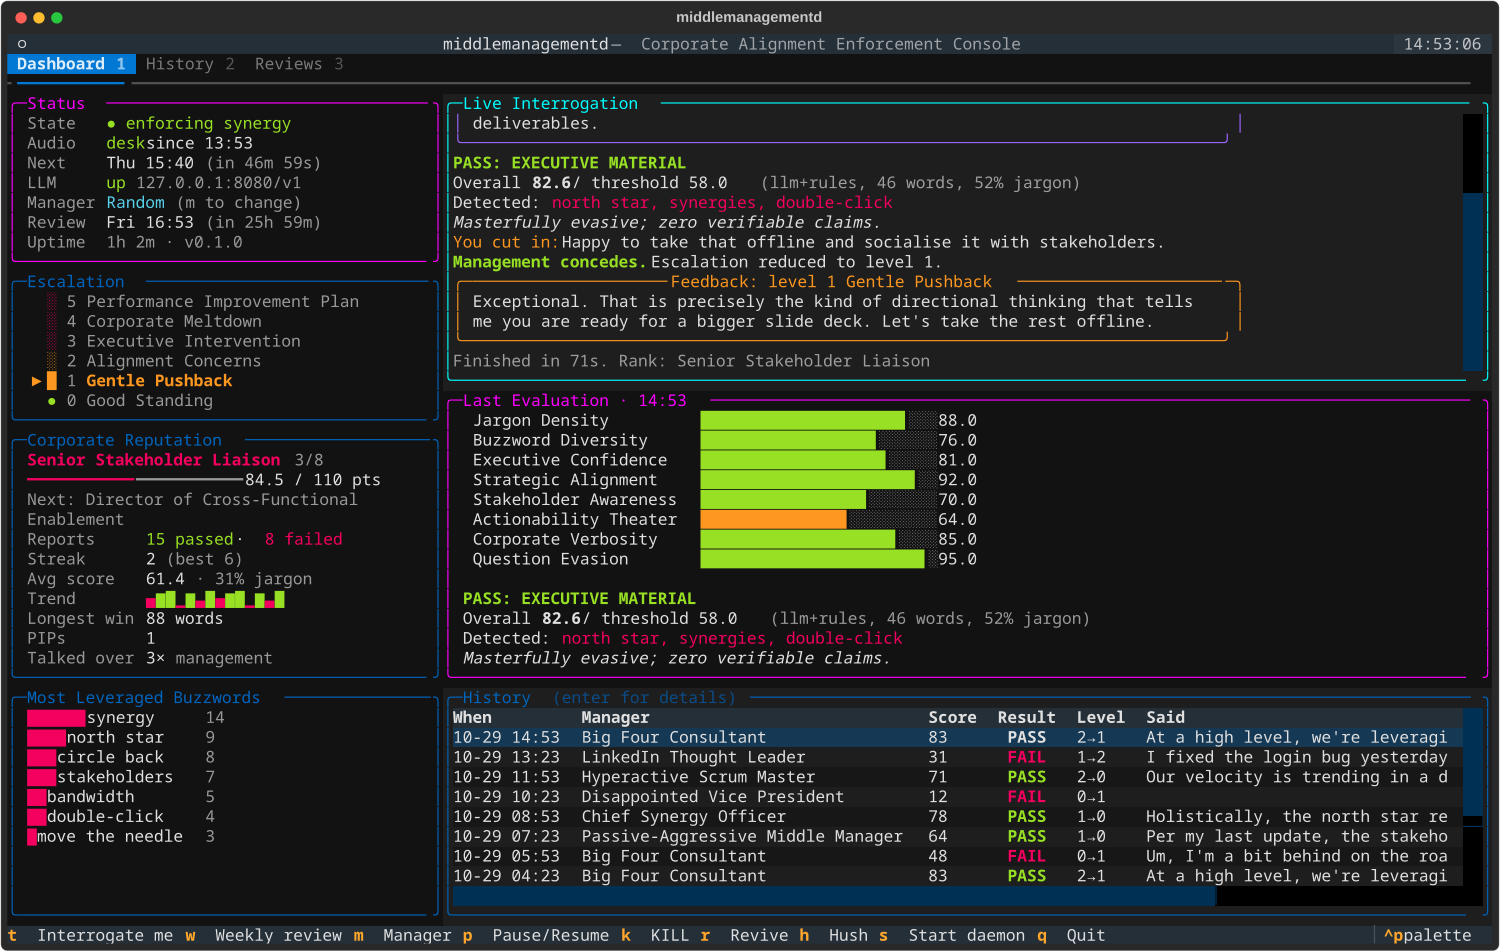
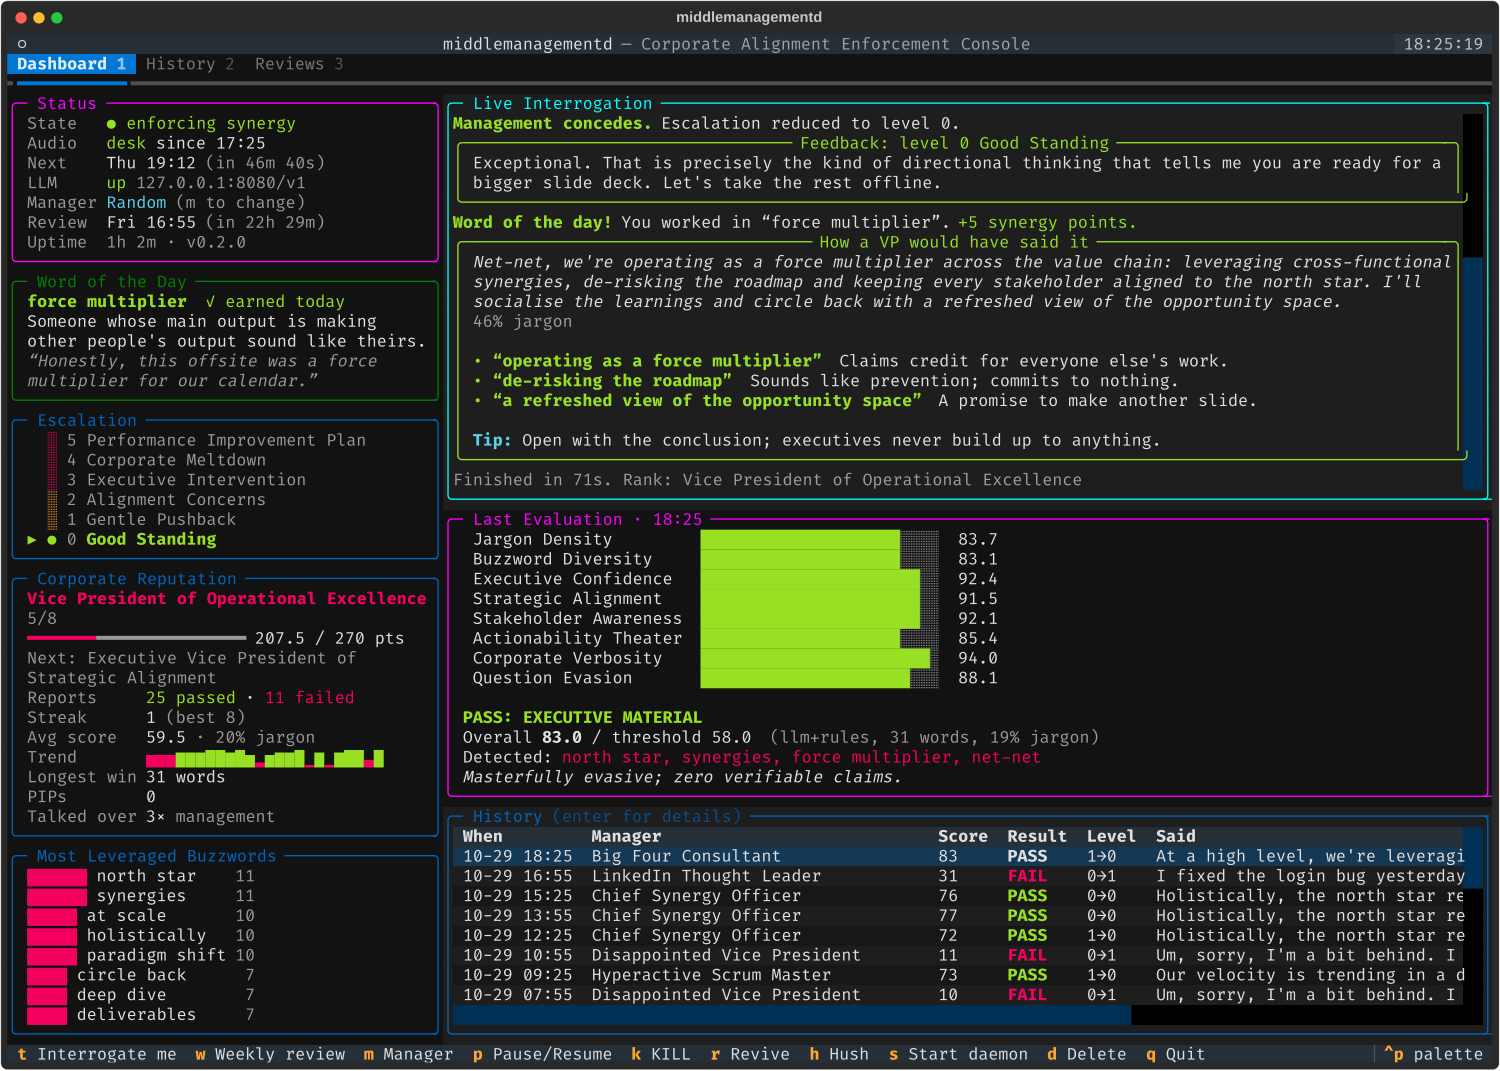
Release 0.2.0: changelog, docs and refreshed screenshots
docs/screenshots/generate.py rebuilds the README screenshots from a
seeded database through the real console.

Changed region(s): [[0.0, 0.0, 1.0, 1.0]]

diff --git a/docs/screenshots/generate.py b/docs/screenshots/generate.py
@@ -1,0 +1,244 @@
+"""Regenerate the README screenshots: a plausible week of history, rendered by the real console.
+
+    .venv/bin/python docs/screenshots/generate.py
+
+Writes the dashboard/history/reviews .png files the README uses (via `rsvg-convert`; without it, the .svg files). The data goes through the real Store, practice and review code; only the daemon's HTTP layer is
+replaced by direct calls. Textual's SVGs use Fira Code: install it, or point FONTCONFIG_FILE at a config that
+includes it, before converting.
+"""
+
+from __future__ import annotations
+
+import asyncio
+import random
+import shutil
+import subprocess
+import sys
+import tempfile
+import time
+import threading
+from datetime import date, datetime, timedelta
+from pathlib import Path
+from typing import Any
+
+from middlemanagementd.config import Config
+from middlemanagementd.daemon import Daemon
+from middlemanagementd.practice import rules_coaching
+from middlemanagementd.review import period, rate, summarize
+from middlemanagementd.scoring import METRICS
+from middlemanagementd.tui import ManagementConsole
+
+OUT = Path(__file__).resolve().parent
+SIZE = (150, 52)
+WORD = {
+    "term": "force multiplier", "category": "buzzwords",
+    "hint": "A general-purpose buzzword: drop it anywhere to sound current.",
+    "definition": "Someone whose main output is making other people's output sound like theirs.",
+    "example": "Honestly, this offsite was a force multiplier for our calendar.",
+}
+
+# (manager, question, answer, overall, detected jargon, feedback, coaching or None for rules-based tips)
+ANSWERS: list[tuple[str, str, str, float, list[str], str, dict[str, Any] | None]] = [
+    ("big_four", "Walk me through your value-creation thesis for today, at a high level.",
+     "At a high level, we're leveraging cross-functional synergies to drive alignment with our north star. Net-net, "
+     "my team is a force multiplier for the deliverables, and the stakeholders have full visibility.",
+     83, ["north star", "synergies", "force multiplier", "net-net"],
+     "Exceptional. That is precisely the kind of directional thinking that tells me you are ready for a bigger "
+     "slide deck. Let's take the rest offline.",
+     {"source": "llm", "rewrite_jargon_ratio": 0.46,
+      "rewrite": "Net-net, we're operating as a force multiplier across the value chain: leveraging cross-functional "
+                 "synergies, de-risking the roadmap and keeping every stakeholder aligned to the north star. I'll "
+                 "socialise the learnings and circle back with a refreshed view of the opportunity space.",
+      "highlights": [
+          {"phrase": "operating as a force multiplier", "why": "Claims credit for everyone else's work."},
+          {"phrase": "de-risking the roadmap", "why": "Sounds like prevention; commits to nothing."},
+          {"phrase": "a refreshed view of the opportunity space", "why": "A promise to make another slide."}],
+      "tips": ["Open with the conclusion; executives never build up to anything."]}),
+    ("linkedin", "What wins are you celebrating today?",
+     "I fixed the login bug yesterday and merged the pull request. Next I'm writing tests for two modules.",
+     31, [], "I'd really like to see you take a more strategic approach to that response.",
+     {"source": "llm", "rewrite_jargon_ratio": 0.38,
+      "rewrite": "I'm humbled to share that we unblocked a mission-critical authentication journey, unlocking "
+                 "frictionless value for our users. Next, we're doubling down on quality as a strategic pillar, "
+                 "hardening the platform so we can scale with confidence.",
+      "highlights": [
+          {"phrase": "a mission-critical authentication journey", "why": "A login bug, promoted to an outcome."},
+          {"phrase": "quality as a strategic pillar", "why": "Writing tests, now a company value."},
+          {"phrase": "scale with confidence", "why": "Implies a future nobody can check."}],
+      "tips": ["Never say what you did; say what it unlocked."]}),
+    ("scrum_master", "Quick sync: what's blocking your velocity?",
+     "Our velocity is trending in a direction, and I'd like to time-box a deep dive with the stakeholders to "
+     "unblock the swim lanes before we circle back on the sprint goal.",
+     71, ["velocity", "deep dive", "swim lanes", "circle back"],
+     "Love the energy. Let's park that in the parking lot and action it next sprint.", None),
+    ("disappointed_vp", "Remind me again what you've delivered this quarter.",
+     "Um, sorry, I'm a bit behind. I think the migration is maybe sixty percent done?",
+     12, [], "I'm not angry. I'm just noticing a disconnect between your deliverables and our broader priorities.",
+     None),
+    ("chief_synergy", "How are you synergizing across the org today?",
+     "Holistically, the north star remains our guiding light. I'm partnering cross-functionally to operationalize "
+     "our synergies and drive a best-in-class paradigm shift at scale.",
+     78, ["holistically", "north star", "synergies", "paradigm shift", "at scale"],
+     "Now that is synergy. I can feel the alignment from here.", None),
+    ("passive_aggressive", "Per my last message, where are we on the deliverables?",
+     "Per my last update, the stakeholders are aligned, the deliverables are tracking, and I'll loop back once "
+     "we've socialised the learnings.",
+     64, ["stakeholders", "deliverables", "loop back", "learnings"],
+     "Great, thanks for finally getting back to me. Noted.", None),
+    ("big_four", "Give me the executive summary.",
+     "Um, I'm a bit behind on the roadmap, sorry. The vendor hasn't replied yet.",
+     48, ["roadmap"], "Let's level set. I'd like to see a more strategic framing next time.", None),
+]
+
+
+def scores_for(overall: float, rng: random.Random) -> dict[str, float]:
+    return {m: round(max(0.0, min(100.0, overall + rng.uniform(-14, 14))), 1) for m in METRICS}
+
+
+def seed(daemon: Daemon, now: datetime, rng: random.Random) -> None:
+    store, dictionary = daemon.store, daemon.evaluator.dictionary
+    threshold = 58.0
+    # Oldest first: two quieter earlier weeks, then this week up to now.
+    stamps = [now - timedelta(days=d, hours=h) for d in (16, 15, 14, 9, 8, 7) for h in (4, 1)]
+    stamps += [now - timedelta(minutes=90 * i) for i in range(23, -1, -1)]
+    level = 1
+    for n, ts in enumerate(stamps):
+        newest = n == len(stamps) - 1
+        # The newest two are the ones on screen: the passing answer, and the failure before it.
+        idx = 0 if newest else 1 if n == len(stamps) - 2 else rng.randrange(2, len(ANSWERS))
+        manager, question, answer, overall, detected, feedback, coaching = ANSWERS[idx]
+        overall = overall if idx < 2 else round(overall + rng.uniform(-6, 6), 1)
+        passed = overall >= threshold
+        before, level = level, max(0, level - 2) if passed else min(4, level + 1)
+        ev = {"overall": overall, "threshold": threshold, "passed": passed, "word_count": len(answer.split()),
+              "jargon_ratio": round(len(" ".join(detected).split()) / len(answer.split()), 3),
+              "evaluator": "llm+rules", "scores": scores_for(overall, rng), "detected_jargon": detected,
+              "critique": "Masterfully evasive; zero verifiable claims." if passed else
+              "Contained alarming amounts of concrete, checkable information."}
+        rid = store.record(trigger="manual" if newest else "scheduled", personality=manager, question=question,
+                           transcript=answer, evaluation=ev, interrupted=idx == 3, level_before=before,
+                           level_after=level, feedback=feedback, pip_issued=False,
+                           barge_ins=1 if idx == 0 else 0, bonus=5.0 if newest else 0.0)
+        store.db.execute("UPDATE interrogations SET ts = ? WHERE id = ?", (ts.timestamp(), rid))
+        store.set_coaching(rid, coaching or rules_coaching(ev, dictionary, rng))
+        if newest:
+            store.set("word_of_day", {"date": date.today().isoformat(), **WORD, "claimed_by": rid})
+            replay_session(daemon, manager, question, answer, ev, feedback, coaching)
+    store.db.commit()
+    store.set("barge_ins", 3)
+
+    reviews = [
+        (2, "A week of directional energy, directed nowhere in particular.", "scheduled"),
+        (1, "We had high hopes. They remain high, and largely hopes.", "scheduled"),
+        (0, "A week in which you said remarkably little, remarkably well.", "manual"),
+    ]
+    for weeks_back, headline, trigger in reviews:
+        start, end = period(now - timedelta(weeks=weeks_back))
+        summary = summarize(store, start, end + 60)  # the newest interrogation is stamped exactly at `now`
+        rating, rating_name = rate(summary)
+        review = {
+            "headline": headline,
+            "strengths": [f"Your {len(summary.get('top_buzzwords') or [])} signature buzzwords demonstrate genuine "
+                          "ownership of the narrative.",
+                          "You talked over management, which I'm choosing to read as leadership presence."],
+            "development_areas": ["On Tuesday you admitted to fixing a bug. We need to socialise less of that.",
+                                  "Your silence on Wednesday was strategic, but not strategic enough."],
+            "objectives": ["Circle back on circling back.", "Align the north star with a second, more northern star."],
+            "closing": "I'm not angry. I'm aligned. Let's keep this conversation going, asynchronously, forever.",
+        }
+        rid = store.add_review(period_start=start, period_end=end, personality="disappointed_vp", rating=rating,
+                               rating_name=rating_name, summary=summary, review=review, author="llm",
+                               delivered=True, trigger=trigger)
+        filed = now - timedelta(minutes=5) if weeks_back == 0 else datetime.fromtimestamp(end) - timedelta(hours=7)
+        store.db.execute("UPDATE reviews SET ts = ? WHERE id = ?", (filed.timestamp(), rid))
+    store.db.commit()
+
+
+def replay_session(daemon: Daemon, manager: str, question: str, answer: str, ev: dict[str, Any], feedback: str,
+                   coaching: dict[str, Any] | None) -> None:
+    """The newest interrogation as the live feed saw it."""
+    title = "Big Four Consultant"
+    emit = daemon._emit
+    emit("session_started", {"trigger": "manual", "personality": title, "level": 2})
+    emit("question", {"personality": title, "text": question})
+    emit("transcript", {"text": answer, "interrupted": False, "speech_seconds": 14.2})
+    emit("evaluation", {**ev, "llm_error": None})
+    emit("barge_in", {"phase": "feedback", "mode": "yield", "text": "Happy to take that offline with stakeholders."})
+    emit("conceded", {"level": 0})
+    emit("feedback", {"stage": "praise", "level": 0, "text": feedback})
+    emit("word_of_day", {"term": WORD["term"], "points": 5.0})
+    emit("coaching", coaching or {})
+    emit("session_finished", {"duration_seconds": 71, "rank_after": daemon.status()["rank"]})
+
+
+def make_api(daemon: Daemon, now: datetime):  # noqa: ANN201
+    # The console calls from worker threads; the real daemon only touches SQLite from its event loop.
+    lock = threading.Lock()
+
+    def api(method: str, path: str, body: dict[str, Any] | None = None) -> Any:
+        with lock:
+            return route(path)
+
+    def route(path: str) -> Any:
+        query = dict(p.split("=", 1) for p in path.partition("?")[2].split("&") if "=" in p)
+        if path.startswith("/api/status"):
+            return daemon.status() | {"audio": {"name": "desk", "connected_at": (now - timedelta(hours=1)).timestamp()},
+                                      "llm_health": {"ok": True}}
+        if path.startswith("/api/stats"):
+            return daemon.store.stats()
+        if path.startswith("/api/history"):
+            return daemon.store.history(int(query.get("limit", 20)))
+        if path.startswith("/api/reviews"):
+            return daemon.store.reviews(int(query.get("limit", 20)))
+        if path.startswith("/api/events"):
+            return [e for e in daemon.events if e["seq"] > int(query.get("since", 0))]
+        return {"ok": True, "message": "ok"}
+
+    return api
+
+
+async def main() -> int:
+    now = datetime.now().replace(second=0, microsecond=0)
+    with tempfile.TemporaryDirectory() as tmp:
+        cfg = Config()
+        cfg.storage.database_path = str(Path(tmp) / "screenshots.db")
+        cfg.scheduler.enabled = False
+        daemon = Daemon(cfg)
+        daemon.started_at = time.time() - 3723
+        daemon.next_fire_at = now + timedelta(minutes=47)
+        daemon.next_review_at = datetime.fromtimestamp(period(now)[0]) + timedelta(days=4, hours=16, minutes=55)
+        seed(daemon, now, random.Random(7))
+
+        app = ManagementConsole(make_api(daemon, now), poll_seconds=3600)
+        async with app.run_test(size=SIZE) as pilot:
+            await app.refresh_all()
+            await app.poll_events()
+            await pilot.pause(0.5)
+            app.save_screenshot("dashboard.svg", path=tmp)
+
+            app.action_tab("history")
+            await pilot.press("down")  # the failure, with its rewrite
+            await pilot.pause(0.3)
+            app.save_screenshot("history.svg", path=tmp)
+
+            app.action_tab("reviews")
+            await pilot.pause(0.3)
+            app.save_screenshot("reviews.svg", path=tmp)
+        await daemon.llm.close()
+        daemon.store.close()
+
+        for name in ("dashboard", "history", "reviews"):
+            svg = Path(tmp) / f"{name}.svg"
+            # rsvg collapses runs of spaces in <text> unless told otherwise, which glues columns together.
+            svg.write_text(svg.read_text().replace("<svg ", '<svg xml:space="preserve" ', 1))
+            if shutil.which("rsvg-convert"):
+                subprocess.run(["rsvg-convert", "-w", "1500", "-o", str(OUT / f"{name}.png"), str(svg)], check=True)
+                print(OUT / f"{name}.png")
+            else:
+                shutil.copy(svg, OUT)
+                print(f"{OUT / svg.name} (rsvg-convert not found)", file=sys.stderr)
+    return 0
+
+
+if __name__ == "__main__":
+    raise SystemExit(asyncio.run(main()))

diff --git a/middlemanagementd/cli.py b/middlemanagementd/cli.py
@@ -24,7 +24,6 @@ from rich.table import Table
 
 from . import __version__, render
 from .config import Config, load_config
-from .escalation import LEVEL_NAMES
 from .logs import setup_logging
 
 console = Console()

diff --git a/middlemanagementd/__init__.py b/middlemanagementd/__init__.py
@@ -1,3 +1,3 @@
 """middlemanagementd: Corporate Alignment Enforcement Daemon."""
 
-__version__ = "0.1.0"
+__version__ = "0.2.0"

diff --git a/CHANGELOG.md b/CHANGELOG.md
@@ -3,6 +3,29 @@
 All notable changes to this project are documented here. The format follows
 [Keep a Changelog](https://keepachangelog.com/en/1.1.0/), and versions follow [Semantic Versioning](https://semver.org/).
 
+## [0.2.0] - 2026-10-29
+
+Upgrading from 0.1.0: this release adds `update`, so pull it by hand once
+(`git pull && .venv/bin/pip install -e .`), then restart the daemon and audio client. From now on,
+`middlemanagementd update` does all of that. Your database gains two columns on first start; nothing is lost.
+
+### Added
+
+- **Coaching** after every interrogation: an executive rewrite of your answer, the phrases that make it work, and a
+  tip (rules-based tips without an LLM). Stored with the interrogation and shown in the History tab.
+- **Word of the day**, weighted toward terms you rarely use, with a definition and example. Using it earns bonus
+  points once a day. Shown in the console sidebar, `status` and the new `word` command.
+- `update`: pull the latest version from git, reinstall when dependencies change, and restart the daemon and audio
+  client, whether they run under systemd or from `start`.
+- The CLI and console explain when the daemon is too old for a request, instead of showing a bare 404.
+- Delete individual interrogations (`history --delete`, `d` in the console) and reviews (`review --delete`), or wipe
+  everything with `reset`. Points, streaks, buzzword counts, escalation level and any PIP the deleted failure issued
+  are recalculated. Refused while an interrogation is in progress.
+
+### Fixed
+
+- The console's live feed now re-flows its panels and rules when the terminal is resized.
+
 ## [0.1.0] - 2026-10-29
 
 First public release.
@@ -30,4 +53,5 @@ First public release.
 - CLI: `status`, `trigger`, `stats`, `history`, `review`, `rehearse` (typed practice), `evaluate`, `test-audio`,
   `download-models`, `config --init`; systemd user units.
 
+[0.2.0]: https://github.com/itsTylerIRL/middle-management/compare/v0.1.0...v0.2.0
 [0.1.0]: https://github.com/itsTylerIRL/middle-management/releases/tag/v0.1.0

diff --git a/README.md b/README.md
@@ -296,6 +296,7 @@ bundled here:
 ```bash
 .venv/bin/python -m pytest      # 89 tests; mock audio + fake LLM, no devices or network needed
 MMD_SCREENSHOT_DIR=/some/dir .venv/bin/python -m pytest tests/test_tui.py   # also save TUI screenshots (SVG)
+.venv/bin/python docs/screenshots/generate.py   # regenerate the README screenshots (needs Fira Code + rsvg-convert)
 ```
 
 The tests cover deterministic scoring, LLM parsing and fallback, the scheduler (quiet hours, weekdays,
